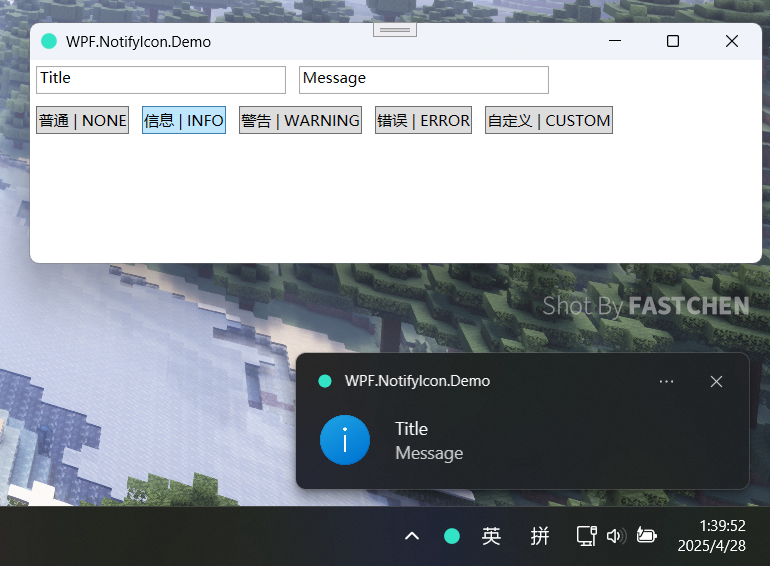
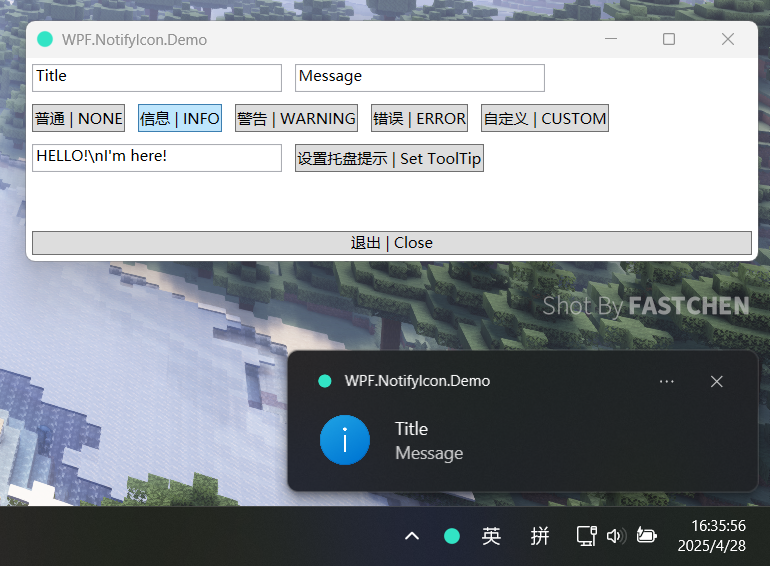
update readme and demo
1.Update readme
2.Update demo

diff --git a/samples/WPF.NotifyIcon.Demo/MainWindow.xaml b/samples/WPF.NotifyIcon.Demo/MainWindow.xaml
@@ -10,6 +10,7 @@
         <Grid.RowDefinitions>
             <RowDefinition Height="32"/>
             <RowDefinition Height="32"/>
+            <RowDefinition Height="32"/>
             <RowDefinition Height="*"/>
         </Grid.RowDefinitions>
 
@@ -26,7 +27,12 @@
             <Button Content="自定义 | CUSTOM" Margin="5" Tag="CUSTOM" Click="Button_Click"></Button>
         </StackPanel>
 
-        <Button Grid.Row="2" Content="退出 | Close" Margin="5" Tag="CLOSE" Click="Button_Click" VerticalAlignment="Bottom" ></Button>
+        <StackPanel Grid.Row="2" Orientation="Horizontal">
+            <TextBox x:Name="TextBox_ToolTip" Text="HELLO!\nI'm here!" MinWidth="200" Margin="5"></TextBox>
+            <Button Content="设置托盘提示 | Set ToolTip" Margin="5" Tag="SetToolTip" Click="Button_Click"></Button>
+        </StackPanel>
+
+        <Button Grid.Row="3" Content="退出 | Close" Margin="5" Tag="CLOSE" Click="Button_Click" VerticalAlignment="Bottom" ></Button>
 
     </Grid>
 </Window>

diff --git a/samples/WPF.NotifyIcon.Demo/MainWindow.xaml.cs b/samples/WPF.NotifyIcon.Demo/MainWindow.xaml.cs
@@ -96,6 +96,10 @@ public partial class MainWindow : Window
                 this.Close();
                 return;
 
+            case "SetToolTip":
+                _notifyIcon.SetToolTip(TextBox_ToolTip.Text);
+                return;
+
             default:
                 toolTipIcon = ToolTipIcon.None;
                 break;

diff --git a/README-en_US.md b/README-en_US.md
@@ -1,94 +1,94 @@
 <div align="center">
   <img src="./images/logo_256x.png" alt="WPF.NotifyIcon" height="160" width="160"/>
   <h1>WPF.NotifyIcon</h1>
-  <h3>WPF 上的原生 NotifyIcon 实现</h3>
+  <h3>WPF Native NotifyIcon</h3>
   <img src="https://img.shields.io/github/stars/fastchen/WPF.NotifyIcon?label=Star&logo=github"/>
   <a href="https://github.com/FastChen/WPF.NotifyIcon/issues"><img src="https://img.shields.io/github/issues/fastchen/WPF.NotifyIcon?label=Issues"/></a>
-  <h4>中文 / <a href="./README-en_US.md">English</a></h4>
+  <h4><a href="./README.md">中文</a> / English</h4>
 </div>
 
 ## 特点
 
-- 仅 10Kb 大小
-- 使用 `Shell_NotifyIcon` 原生实现，无需第三方库支持。
-- 支持 .NET4.62 Framework 至 .NET9(还可以更低需要自行编译)
-- 在 Windows 上弹出气泡通知(Win10以上系统则是 Toast 的普通通知)。
-- 与 WinForm NotifyIcon 控件的使用类似(目前在实现完全一致使用方案)。
+- Only 10Kb Size
+- Use WinAPI `Shell_NotifyIcon`
+- Support .NET4.62 Framework to .NET9
+- Windows BalloonTip
+- Like WinForm NotifyIcon Control
 
-## 使用
+## Usage
 
-**步骤 1:** 在你的 WPF 项目安装包 `WPF.NotifyIcon`
+**Step 1:** Install Package `WPF.NotifyIcon` on Nuget
 
-使用命令行: `Install-Package WPF.NotifyIcon`
+CommandLine: `Install-Package WPF.NotifyIcon`
 
-使用可视化界面: 
+Visual Studio Nuget: 
 ![](images\nuget.png)
 
-**步骤 2:** 创建一个 NotifyIcon
+**Step 2:** NotifyIcon = new();
 
 > [!TIP]
-> 有关使用可以查看 `samples\WPF.NotifyIcon.Demo` 示例!
+> you can check `samples\WPF.NotifyIcon.Demo` get more info.
 
 
 ```c#
-// 创建一个 NotifyIcon
+// Create new NotifyIcon
 private NotifyIcon _notifyIcon = new();
 
 public MainWindow()
 {
     InitializeComponent();
 
-    // 获取程序自身图标
+    // Get Icon.Handle from self
     var icon = _notifyIcon.GetIconHandleFromFile(Environment.ProcessPath);
 
-    // 创建托盘图标与设置托盘
+    // Create Tray in taskbar
     _notifyIcon.Create(this, icon, "HELLO!\nI'm here!");
 
-    // 可以绑定左右键触发事件
+    // Action Event
     _notifyIcon.LeftClick += ShowWindow;
     _notifyIcon.RightClick += ShowContextMenu;
 
-    // 弹出 ShowBalloonTip
+    // Popup ShowBalloonTip
     _notifyIcon.ShowBalloonTip(5000, "Hello!", "WPF.NotifyIcon!", ToolTipIcon.None);
 
-    // 设置 ToolTip 内容
+    // Update ToolTip
      _notifyIcon.SetToolTip("Wow!");
 }
 ```
 
-其中 `ToolTipIcon` 支持以下的图标:
+the `ToolTipIcon` Support icon list:
 
 ```c#
 public enum ToolTipIcon
 {
     /// <summary>
-    /// 不显示图标
+    /// No icon.
     /// </summary>
     None = 0,
 
     /// <summary>
-    /// 信息图标
+    /// Info icon.
     /// </summary>
     Info = 1,
 
     /// <summary>
-    /// 警告图标
+    /// Warning icon.
     /// </summary>
     Warning = 2,
 
     /// <summary>
-    /// 错误图标
+    /// Error icon.
     /// </summary>
     Error = 3,
 
     /// <summary>
-    /// 创建时使用应用程序图标
+    /// Use Application icon.
     /// </summary>
     Custom = 4,
 }
 ```
 
-## 一些图片
+## Images
 
 ### ToolTip:
 
